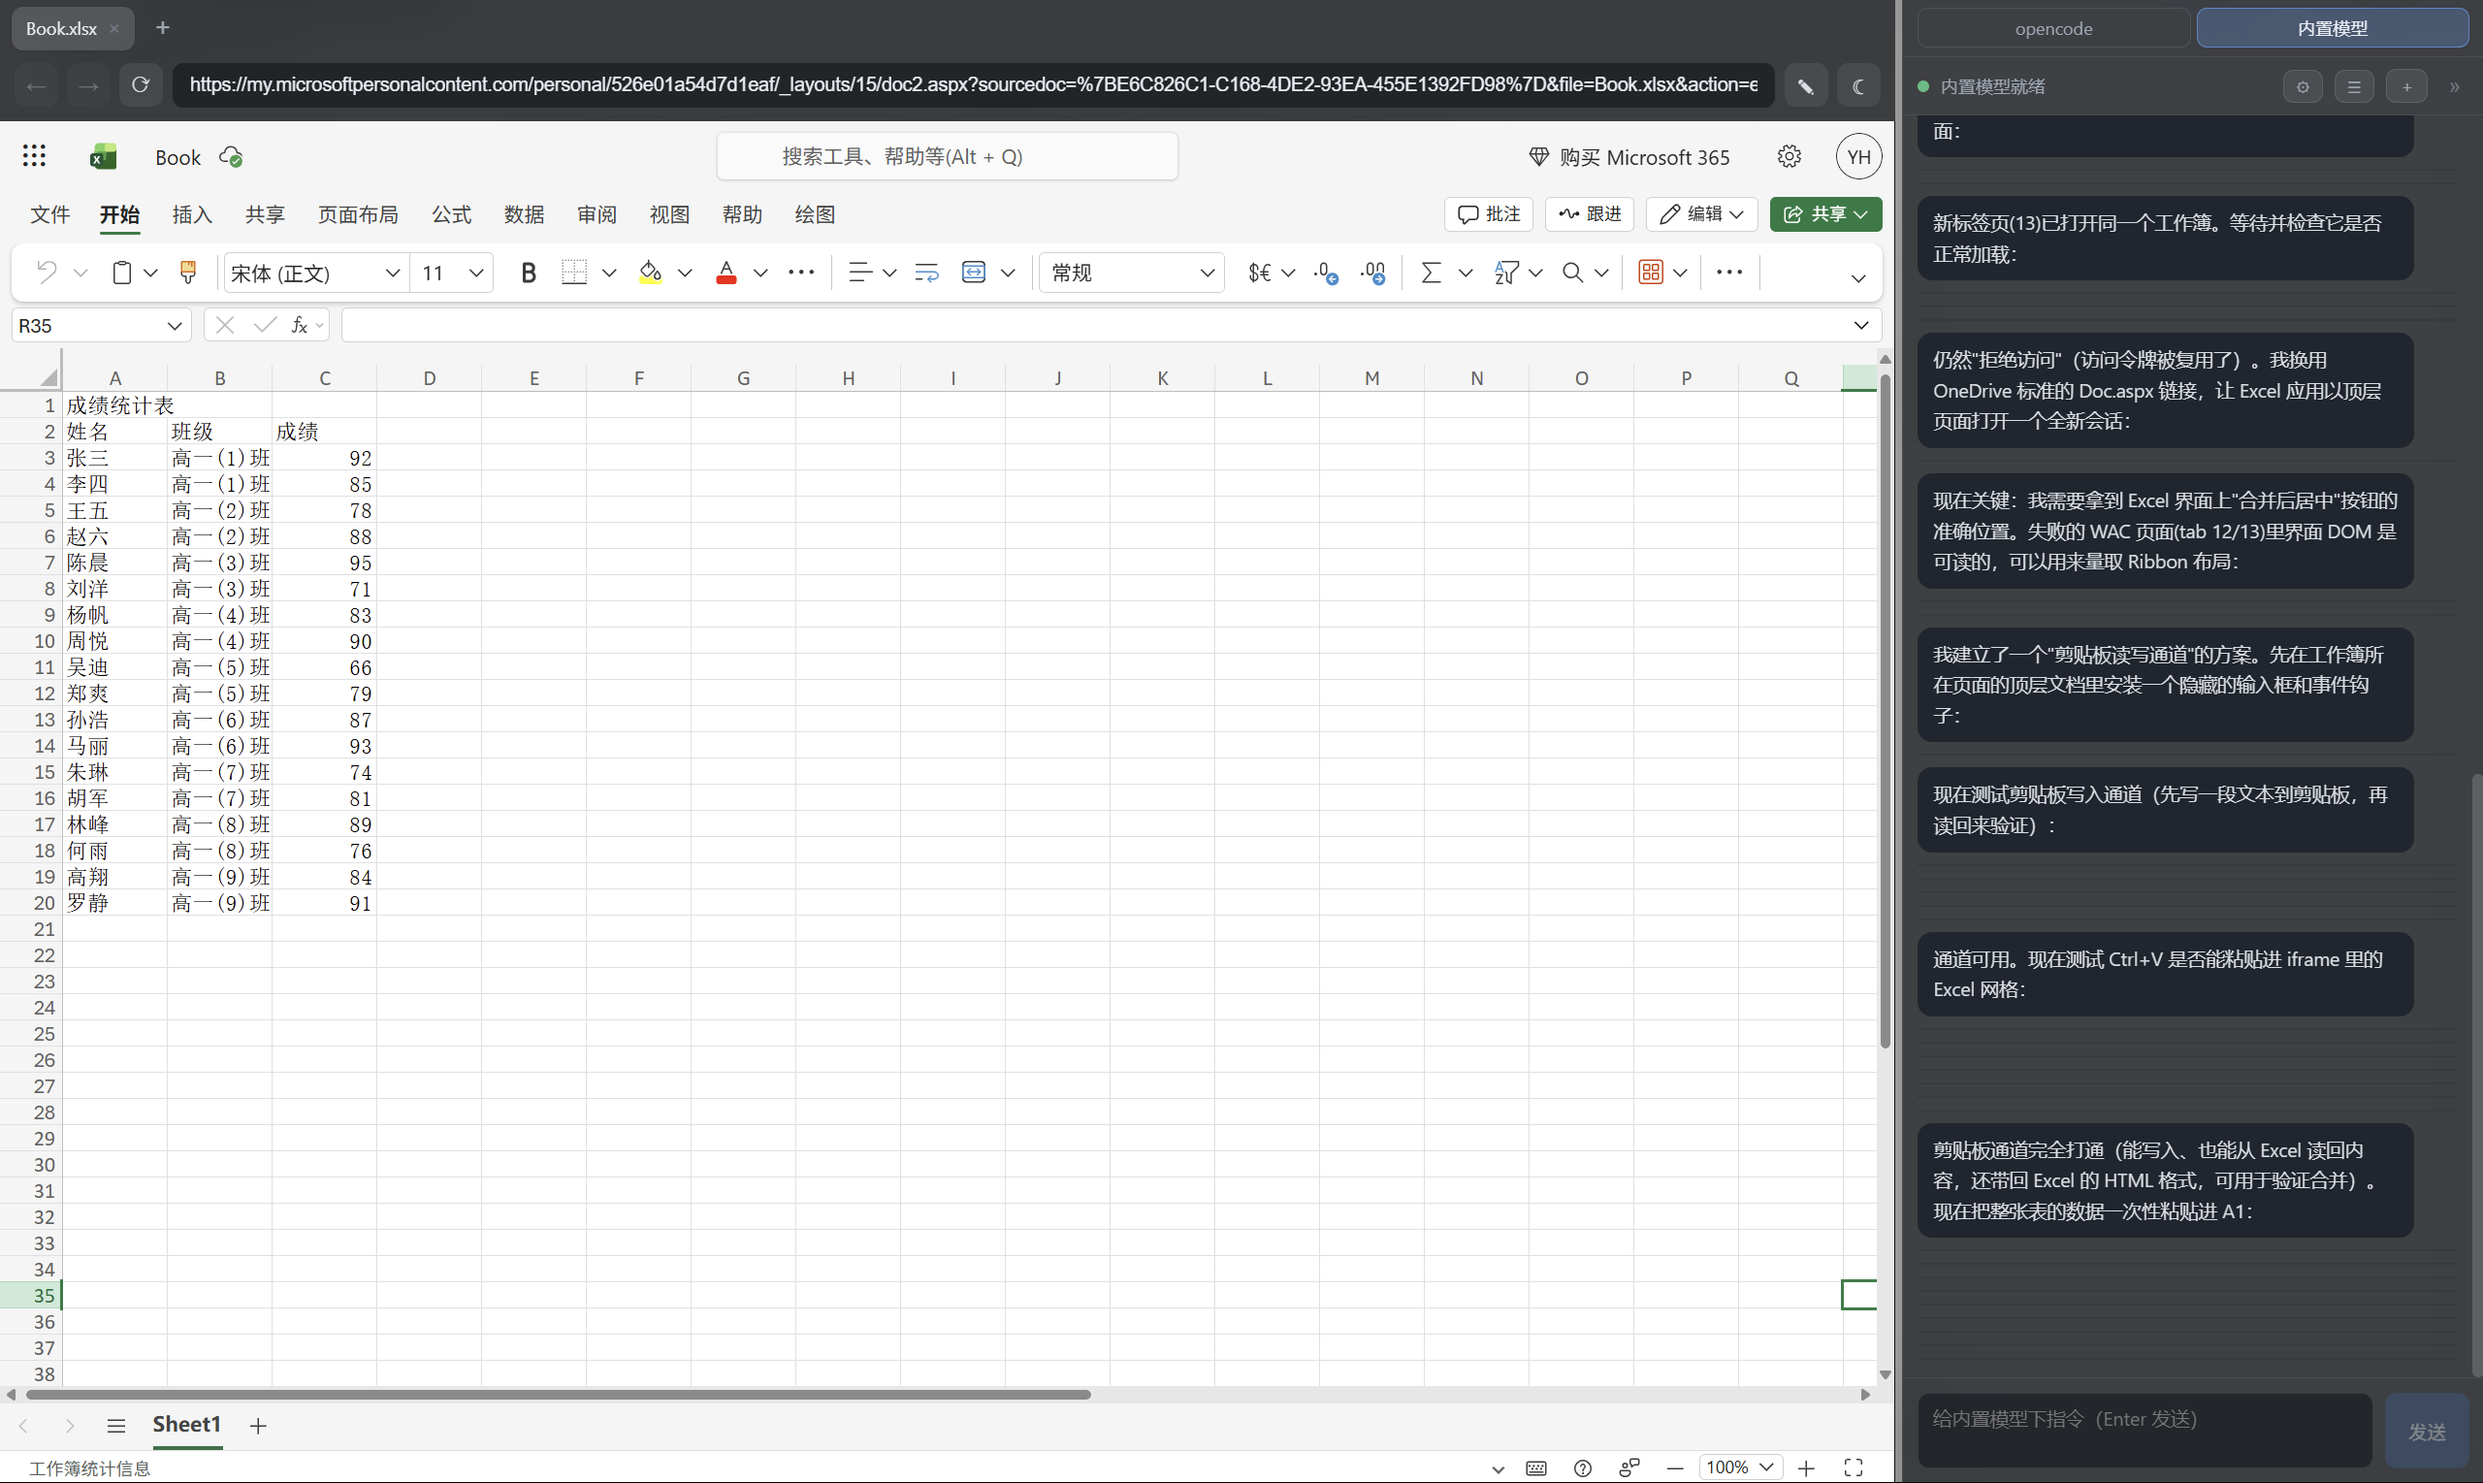
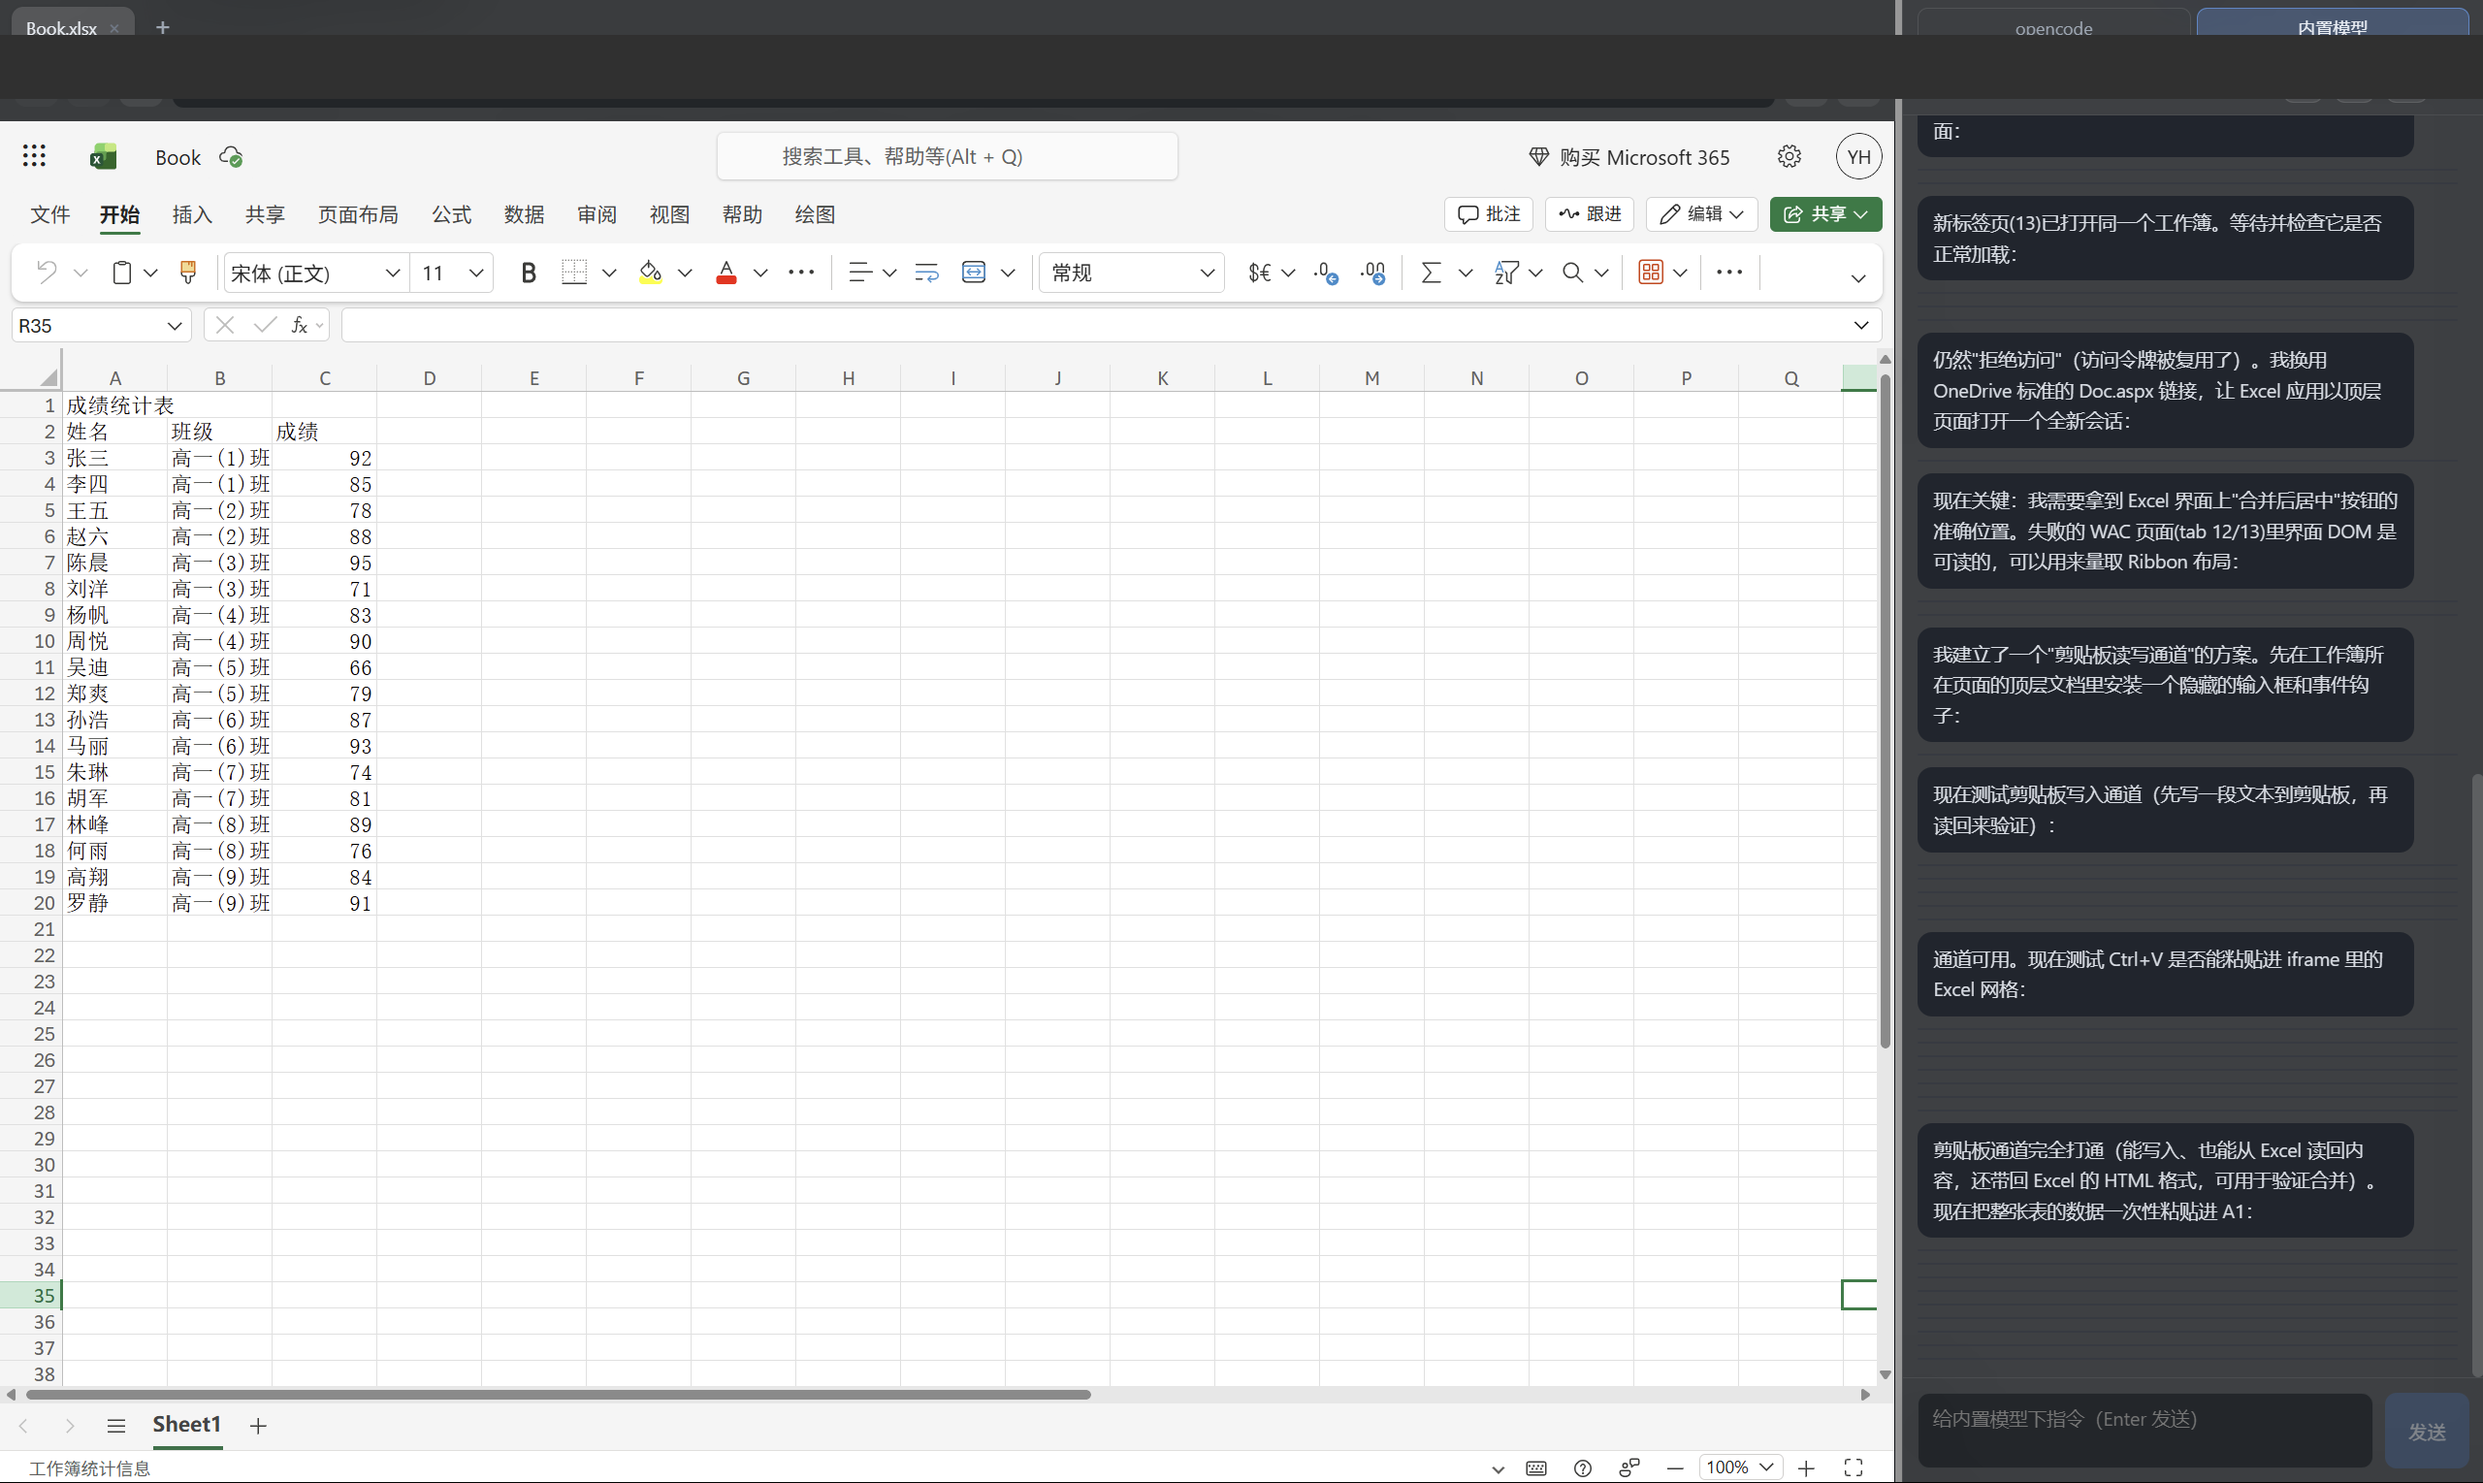
docs: add mascot to README header; mask account URL in Excel demo shot

Changed region(s): [[0.0, 0.0, 0.6875, 0.0615], [0.875, 0.0, 1.0, 0.0922], [0.7188, 0.0307, 0.8438, 0.0922]]

diff --git a/README.md b/README.md
@@ -1,5 +1,7 @@
 # Duplex
 
+<p align="center"><img src="docs/screenshots/mascot.png" width="360" alt="Duplex mascot"></p>
+
 **One browser shared by a human and an AI** — the human sees the rendered page, the AI reads the DOM and page source. Same tabs, same live session, at the same time.
 
 **English** | [中文](README.zh-CN.md)

diff --git a/README.zh-CN.md b/README.zh-CN.md
@@ -1,5 +1,7 @@
 # Duplex
 
+<p align="center"><img src="docs/screenshots/mascot.png" width="360" alt="Duplex 吉祥物"></p>
+
 **一个人与 AI 共用的浏览器** —— 人看渲染后的页面，AI 读 DOM 与源码；同一个标签、同一个实时会话，同时进行。
 
 [English](README.md) | **中文**
